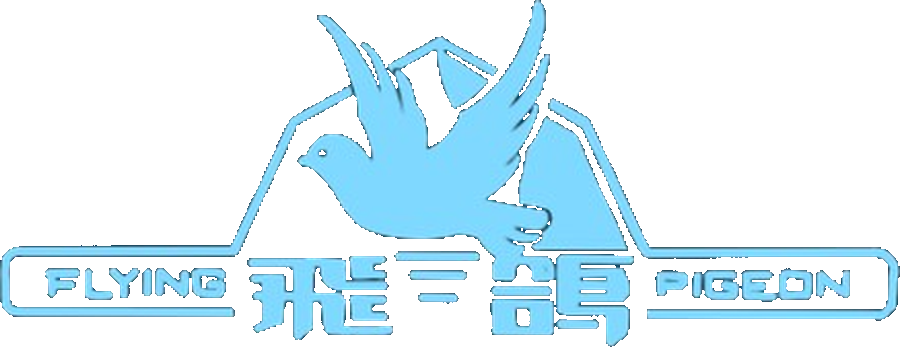
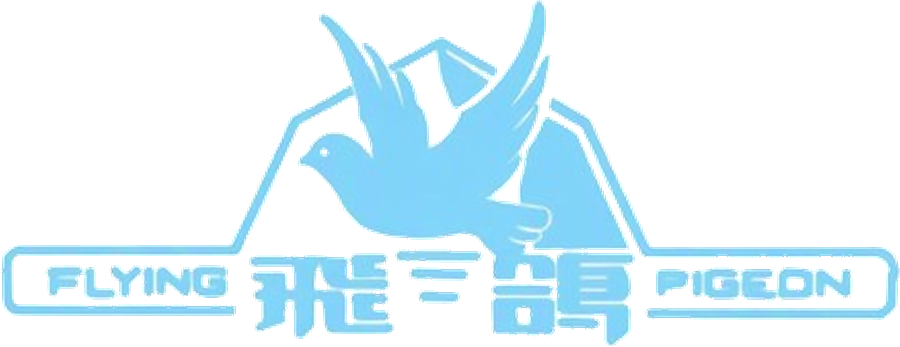
Replace the homepage FAST and Feige marks with the new source files.
Use the sharp FAST icon with only the outer white removed, and the new Feige lockup with a clean transparent background.

diff --git a/index.html b/index.html
@@ -156,7 +156,7 @@
               <h2 class="section-title">项目</h2>
               <div class="project-strip">
                 <a class="project-item project-item-fast" href="fast/index.html">
-                  <img src="public/figma/fast-logo.png?v=orig" alt="FAST" width="70" height="67" />
+                  <img src="public/figma/fast-logo.png?v=clear" alt="FAST" width="70" height="67" />
                 </a>
                 <div class="bottom-line">
                   <img src="public/figma/bottom-line.svg" alt="" width="1228" height="148" />
@@ -169,7 +169,7 @@
                     <img src="public/figma/project-uav-color.png?v=color" alt="飞鸽启动页" width="37" height="80" />
                   </a>
                   <a class="project-item project-item-fp" href="works/feige.html">
-                    <img src="public/figma/project-fp-color.png?v=nobg2" alt="飞鸽" width="150" height="57" />
+                    <img src="public/figma/project-fp-color.png?v=clean" alt="飞鸽" width="150" height="57" />
                   </a>
                   <a class="project-item project-item-drone" href="works/velocare.html">
                     <img src="public/figma/project-drone.png" alt="无人机 VeloCare" width="108" height="62" />

diff --git a/app/page.tsx b/app/page.tsx
@@ -111,7 +111,7 @@ export default function HomePage() {
         <div className="section-title">项目</div>
         <div className="project-strip">
           <Link href="/fast" className="project-item project-item-fast">
-            <Image src="/figma/fast-logo.png?v=orig" alt="FAST" width={70} height={67} />
+            <Image src="/figma/fast-logo.png?v=clear" alt="FAST" width={70} height={67} />
           </Link>
           <div className="bottom-line">
             <Image src="/figma/bottom-line.svg" alt="" width={1228} height={146} />
@@ -136,7 +136,7 @@ export default function HomePage() {
             </Link>
             <Link href="/works/feige" className="project-item project-item-fp">
               <Image
-                src="/figma/project-fp-color.png?v=nobg2"
+                src="/figma/project-fp-color.png?v=clean"
                 alt="飞鸽"
                 width={150}
                 height={57}
